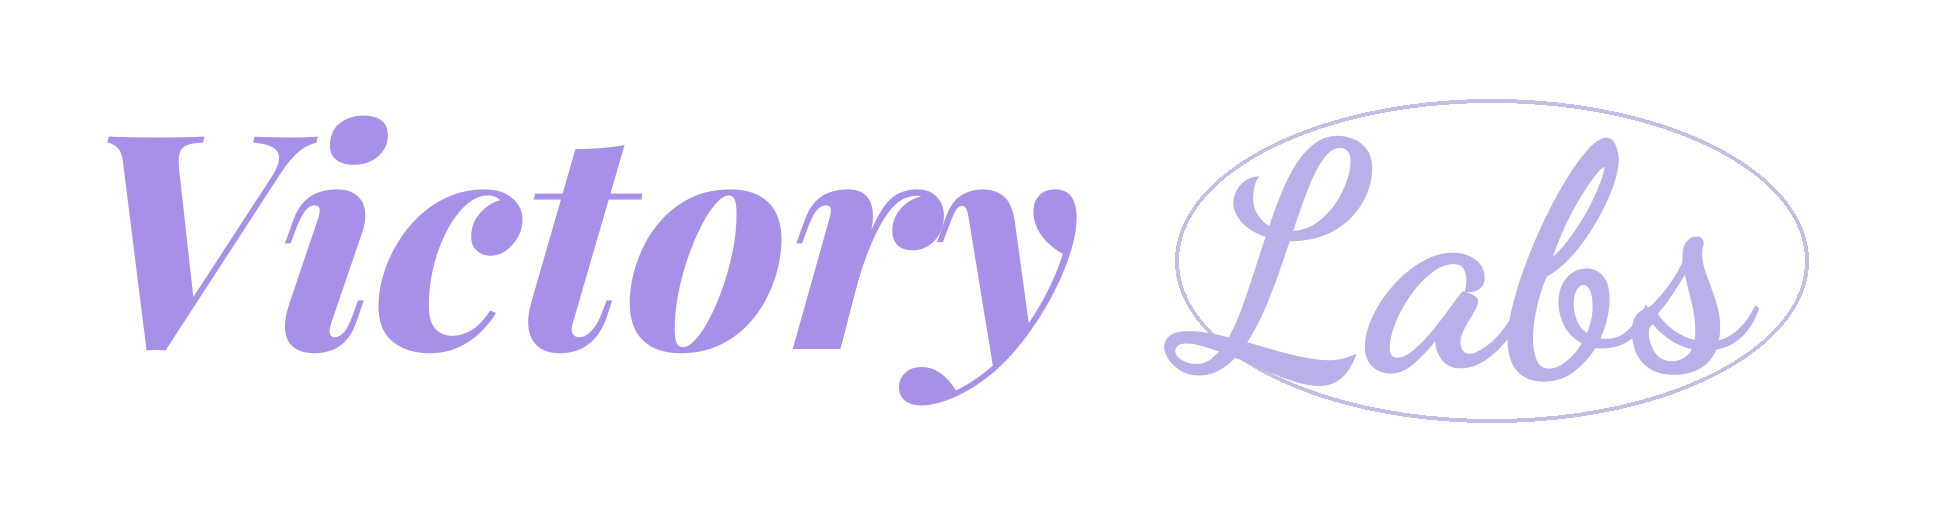
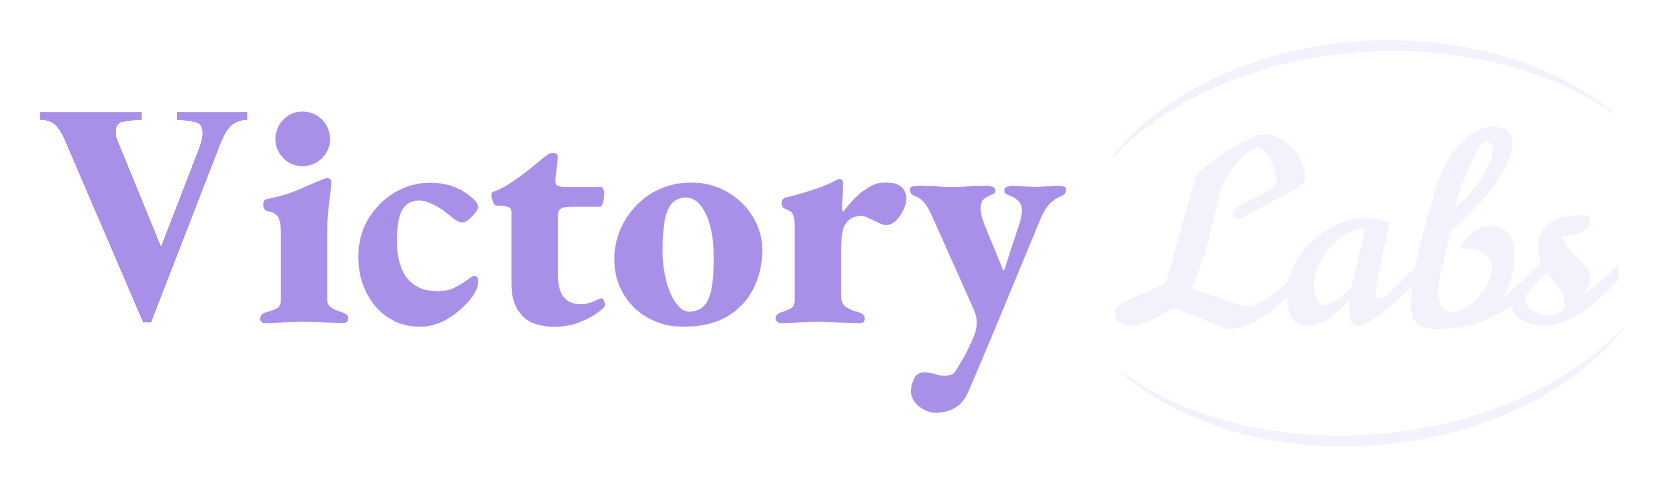
feat(brand): tight-crop wordmark for 48px navbar — no identity change
Crop the approved original PNG artwork to its content bounding box + 20px
padding (was 980×398 with 48px left / 85px top / 139px right / 109px
bottom of empty transparency).

1x : 980×398 → 833×244   (same pixels, removed whitespace)
2x : 1958×796 → 1665×487
3x : 2931×1193 → 2493×729

Zero font, color, or shape changes — exact same artwork, tighter frame.
At 48px navbar height the text now occupies ~40px (was ~25px) because
the canvas wasted 37% of its height in dead transparency above/below.

Gate.tsx: width 197→270 to match new 3.41:1 canvas aspect ratio (avoids
horizontal distortion of the img element).

diff --git a/frontend/src/runtime/Gate.tsx b/frontend/src/runtime/Gate.tsx
@@ -233,7 +233,7 @@ function Wordmark() {
       src="/brand/victorylabs-wordmark.png"
       srcSet="/brand/victorylabs-wordmark.png 1x, /brand/victorylabs-wordmark-2x.png 2x, /brand/victorylabs-wordmark-3x.png 3x"
       alt="VictoryLabs"
-      width={298}
+      width={270}
       height={79}
       className="vl-wordmark"
       draggable={false}
